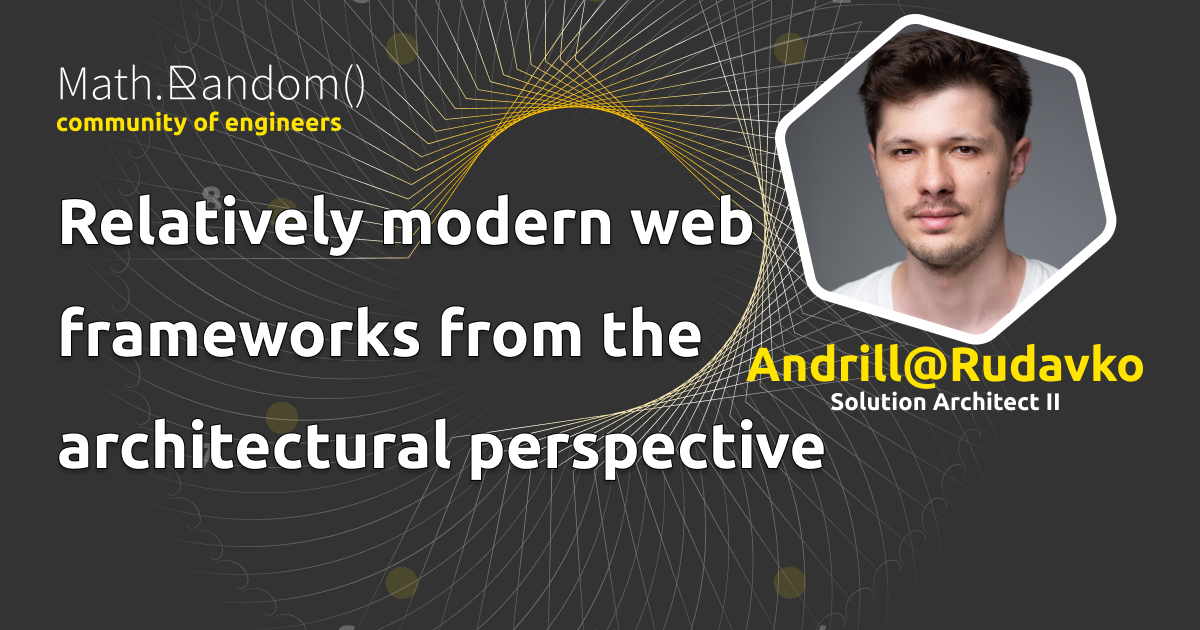
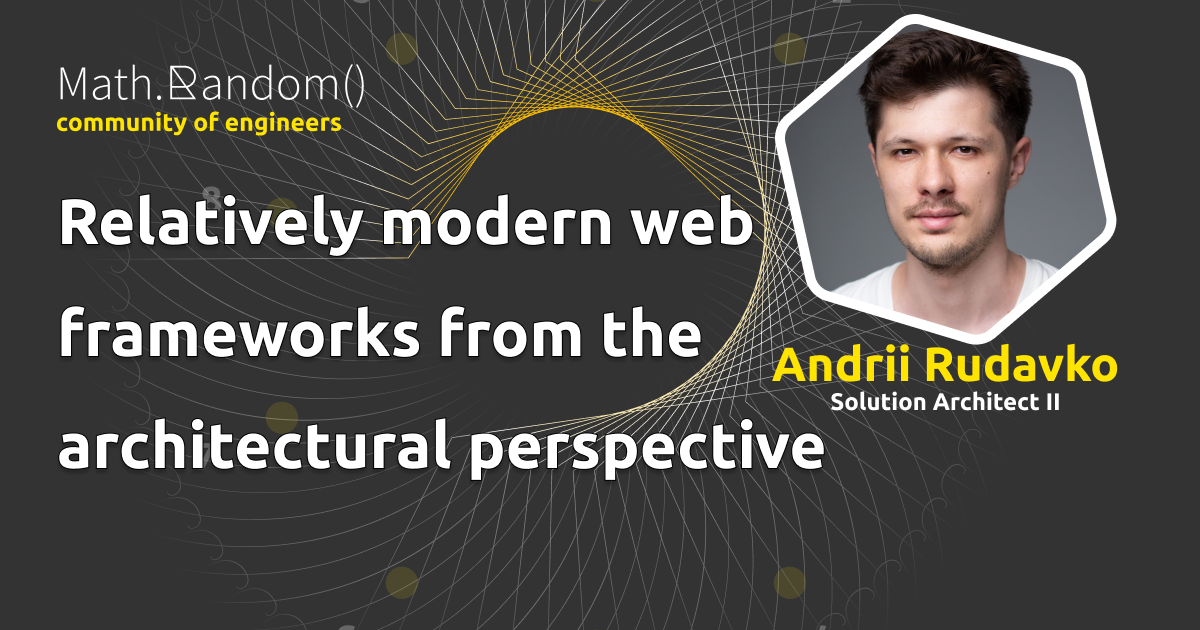
feat(talk): add new talk from Andrii and changed date of current

Changed region(s): [[0.6167, 0.5429, 0.9558, 0.6333]]

diff --git a/content/events/modern-web-frameworks.md b/content/events/modern-web-frameworks.md
@@ -5,7 +5,7 @@ link: https://www.youtube.com/watch?v=MdbyaT6F8cI
 card: /cards/andrill.png
 language: English
 authors:
-  - name: Andrill@Rudavko
+  - name: Andrii Rudavko
     title: Solution Architect II
     about: 20 years of web development
     image: https://v5.airtableusercontent.com/v1/20/20/1694116800000/cRpo0i3CoT5cRzlezZVjyw/Q7Iei15ubLgBkWj3lrOC1hFH-l2eY9EoW6T61kS8Ej1vmHtPhL-ERbhQVTNZkuZlMr77QhT7xTtl-0ikaZKn_A/A3y7ec8xoavIWqYA85cpb_8QuAWJ0PFcDff4zXxrcEo

diff --git a/content/events/from-genai-basics-to-genai-agents.md b/content/events/from-genai-basics-to-genai-agents.md
@@ -5,7 +5,7 @@ link: https://www.youtube.com/watch?v=yEoT6Qy6YqI
 card: /cards/gen-ai.png
 language: English
 authors:
-  - name: Andrill@Rudavko
+  - name: Andrii Rudavko
     title: Solution Architect II
     about: 20 years of web development
     image: https://v5.airtableusercontent.com/v1/20/20/1694116800000/cRpo0i3CoT5cRzlezZVjyw/Q7Iei15ubLgBkWj3lrOC1hFH-l2eY9EoW6T61kS8Ej1vmHtPhL-ERbhQVTNZkuZlMr77QhT7xTtl-0ikaZKn_A/A3y7ec8xoavIWqYA85cpb_8QuAWJ0PFcDff4zXxrcEo
